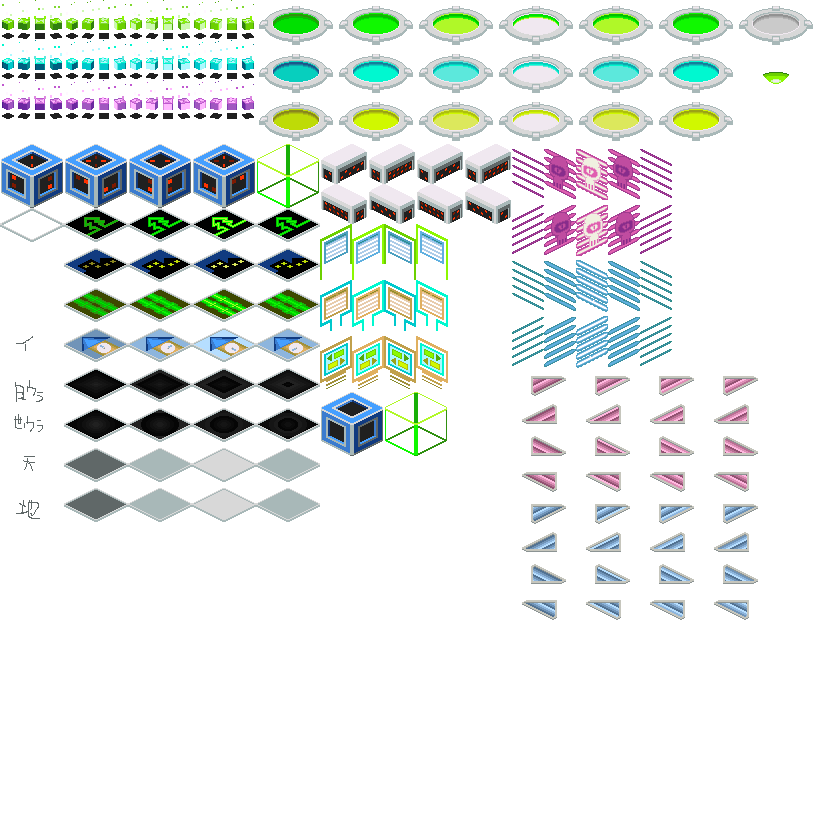
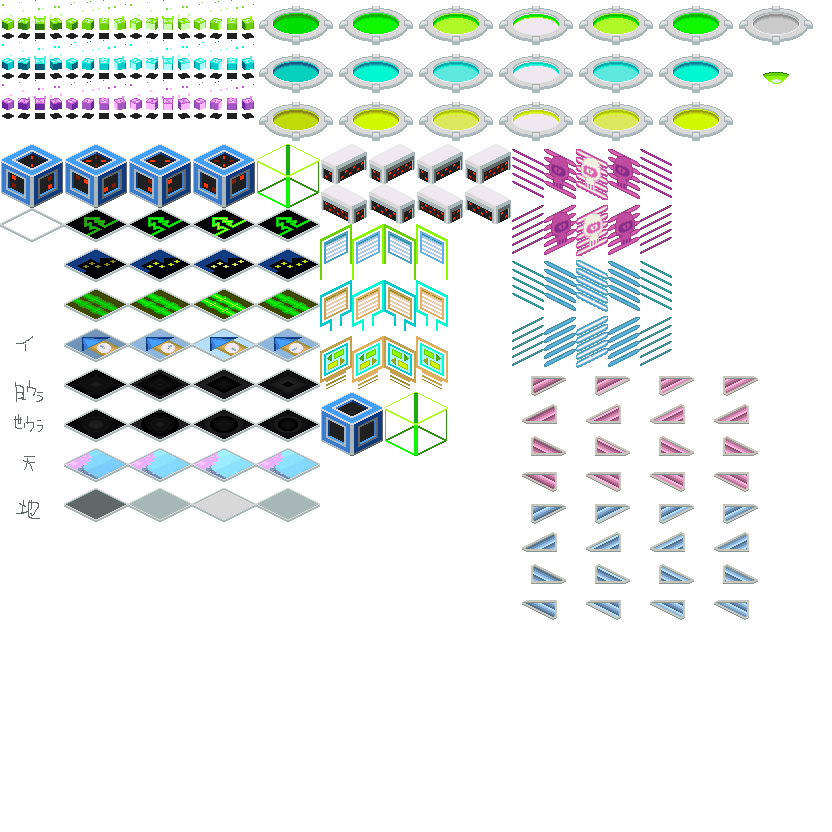
Added forgotten graphics changes, fixed mysterydata rendering typo, removed fridge1 pathing error

Changed region(s): [[0.0938, 0.5312, 0.375, 0.5938]]

diff --git a/ShanghaiEXE/Map/MapField.cs b/ShanghaiEXE/Map/MapField.cs
@@ -579,7 +579,7 @@ namespace NSMap
                 }
                 if (obj2 is MysteryData)
                 {
-                    center1 += new Vector2(-10, -10);
+                    center2 += new Vector2(-10, -10);
                 }
             }
             else if (mcb2 is Player)
